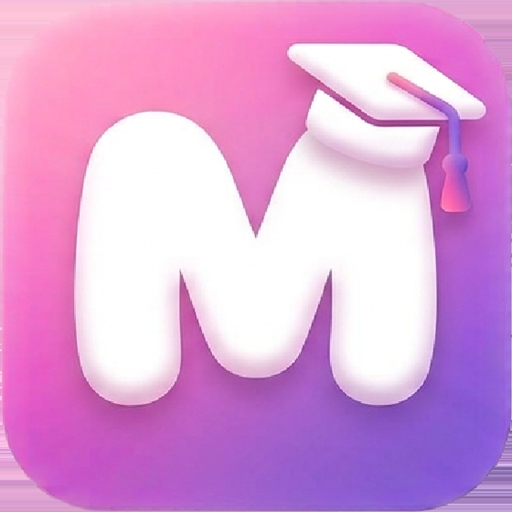
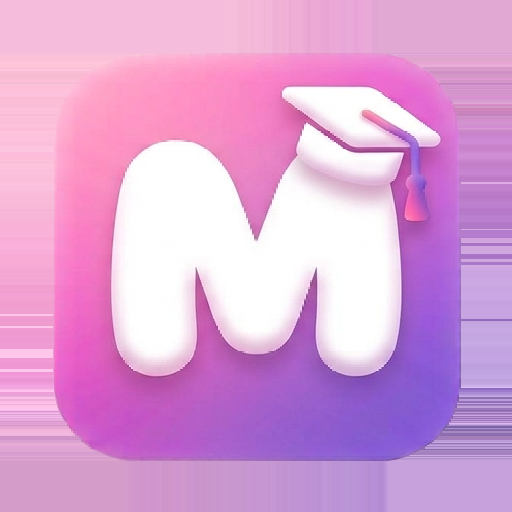
인트로 화면 추가 + 설치 아이콘을 둥근 사각형으로
인트로
- 앱에 들어가기 전 Mindora 소개 화면을 한 번 보여 준다. 매일 쓰는
  사람에게 매번 뜨면 방해가 되므로 본 뒤에는 건너뛴다
- JS 가 막혀도 갇히지 않도록 기본은 hidden 이고 JS 가 켠다.
  transitionend 가 오지 않는 환경에서도 닫히게 타임아웃을 함께 둔다

아이콘 — 용도별로 요구사항이 달라 세 갈래로 나눴다
- 일반(any): 둥근 모서리를 굽고 모서리 밖은 투명. 브라우저·런처가 원본을
  그대로 그리는 자리에서 다른 앱처럼 보인다
- maskable: OS 가 원·스퀴클 등 임의 모양으로 잘라 내므로, 로고를 가운데
  80% 안전 영역에 넣고 남는 테두리는 가장자리 색을 늘려 채웠다.
  안 그러면 M 과 학사모가 잘린다
- apple-touch-icon: iOS 는 투명을 검게 칠하므로 꽉 찬 정사각형으로 두고
  둥글리기는 iOS 에 맡긴다
- 원본의 바깥 발광을 채도 기준으로 잘라 내 흰 테두리를 없앴다. 축소할 때
  가장자리 알파가 반투명해지던 것도 고정한다
- PNG 가 스스로 둥근 모서리를 가지므로 CSS border-radius 는 뺐다.
  이중으로 깎이면 모서리가 지저분해진다

그 밖에
- initInstallPrompt 가 정의만 되고 호출되지 않아 홈 화면 설치 안내가
  아예 뜨지 않았다. init 에서 부른다

diff --git a/index.html b/index.html
@@ -122,6 +122,40 @@ body {
 .aurora span:nth-child(2) { width: 540px; height: 540px; background: #9fe4f5; top: 16%; right: -200px; opacity: 0.42; }
 .aurora span:nth-child(3) { width: 640px; height: 640px; background: #ffc9e4; bottom: -320px; left: 34%; opacity: 0.34; }
 
+/* ---------------------------------------------------------------- intro
+ * 앱에 들어가기 전 한 번 보여 주는 소개 화면.
+ * 뒤 화면이 스크롤되지 않게 body 에 .intro-open 을 걸어 잠근다. */
+.intro {
+  position: fixed; inset: 0; z-index: 200;
+  display: grid; place-items: center; padding: 24px;
+  background: linear-gradient(150deg, #f7f2ff, #eef6ff 55%, #fdf1f8);
+  overflow-y: auto;
+}
+.intro[hidden] { display: none; }
+.intro.is-out { opacity: 0; transition: opacity 0.32s ease; }
+.intro-card {
+  width: 100%; max-width: 420px; text-align: center;
+  background: rgba(255, 255, 255, 0.72);
+  border: 1px solid var(--line); border-radius: 22px;
+  padding: 34px 26px 28px;
+  box-shadow: 0 24px 60px -30px rgba(60, 40, 130, 0.45);
+  backdrop-filter: blur(14px); -webkit-backdrop-filter: blur(14px);
+}
+.intro-logo { width: 84px; height: 84px; display: block; margin: 0 auto 16px; }
+.intro-title { font-size: 27px; font-weight: 800; letter-spacing: -0.03em; margin: 0 0 6px; }
+.intro-lead { font-size: 15px; font-weight: 700; color: var(--accent); margin: 0 0 18px; }
+.intro-body { font-size: 14px; color: var(--muted); margin: 0 0 12px; text-align: left; }
+.intro-tag {
+  font-size: 12px; font-weight: 600; letter-spacing: 0.01em;
+  color: var(--muted); margin: 18px 0 22px;
+}
+.intro-go { width: 100%; }
+body.intro-open { overflow: hidden; }
+
+@media (prefers-reduced-motion: reduce) {
+  .intro.is-out { transition: none; }
+}
+
 /* --------------------------------------------------------------- topbar */
 .topbar {
   position: sticky; top: 0; z-index: 50;
@@ -131,10 +165,9 @@ body {
 }
 .topbar-inner { max-width: 1180px; margin: 0 auto; padding: 10px 20px; display: flex; align-items: center; gap: 14px; }
 .brand { display: flex; align-items: center; gap: 10px; flex-shrink: 0; }
-.brand-mark {
-  width: 38px; height: 38px; display: block; object-fit: cover;
-  border-radius: 11px;
-}
+/* 아이콘 PNG 가 이미 둥근 모서리를 품고 있다(모서리 밖은 투명).
+ * 여기서 또 border-radius 를 걸면 이중으로 깎여 모서리가 지저분해진다. */
+.brand-mark { width: 38px; height: 38px; display: block; }
 .brand-text { display: flex; flex-direction: column; line-height: 1.2; }
 /* h1 이지만 로고 자리라 크기는 그대로 둔다 — 의미만 h1, 모양은 기존과 동일 */
 .brand-text h1 { font-size: 15px; letter-spacing: -0.02em; font-weight: 700; margin: 0; }
@@ -1303,6 +1336,10 @@ input[type="range"]::-moz-range-thumb { width: 15px; height: 15px; border-radius
   /* 상단바 반투명 배경도 어두운 쪽으로 */
   .topbar { background: rgba(15, 18, 32, 0.84); }
 
+  /* 인트로 배경은 라이트용 파스텔 그라데이션이라 어두운 톤으로 다시 잡는다 */
+  .intro { background: linear-gradient(150deg, #171a2b, #12151f 55%, #1d1726); }
+  .intro-card { background: rgba(24, 28, 44, 0.76); }
+
   /* 컬러 배경 위 흰 글자는 그대로 두되, 흰 면 위 검은 글자는 뒤집어야 한다 */
   .toast { background: #e9ecf5; color: #12151f; }
   .toast.party { color: #fff; }
@@ -1340,6 +1377,19 @@ input[type="range"]::-moz-range-thumb { width: 15px; height: 15px; border-radius
 <link rel="apple-touch-icon" sizes="180x180" href="apple-touch-icon.png">
 </head>
 <body>
+
+<!-- 앱에 들어가기 전 인트로. JS 가 막히면 갇히지 않도록 CSS 로 숨기고 JS 가 켠다. -->
+<div class="intro" id="intro" role="dialog" aria-modal="true" aria-labelledby="introTitle" hidden>
+  <div class="intro-card">
+    <img class="intro-logo" src="icon-512.png" alt="" aria-hidden="true">
+    <h2 class="intro-title" id="introTitle">Mindora</h2>
+    <p class="intro-lead">공부를 더 똑똑하게, 기억을 더 오래.</p>
+    <p class="intro-body">Mindora는 AI를 활용해 공부하고 싶은 내용을 쉽고 효율적으로 학습할 수 있도록 도와주는 스마트 학습 앱입니다.</p>
+    <p class="intro-body">복잡한 공부 내용을 정리하고, 핵심을 파악하고, 반복해서 학습하면서 단순히 읽는 공부에서 <b>기억하는 공부</b>로 바꿔보세요.</p>
+    <p class="intro-tag">Learn smarter. Remember longer.</p>
+    <button type="button" class="btn primary intro-go" id="introGo">시작하기</button>
+  </div>
+</div>
 
 <div class="aurora" aria-hidden="true"><span></span><span></span><span></span></div>
 
@@ -9873,6 +9923,8 @@ input[type="range"]::-moz-range-thumb { width: 15px; height: 15px; border-radius
 
     if (!Store.available) toast('브라우저 저장소를 쓸 수 없어 기록이 유지되지 않습니다.', true);
 
+    initIntro();
+    initInstallPrompt();
     registerServiceWorker();
   }
 
@@ -9926,6 +9978,40 @@ input[type="range"]::-moz-range-thumb { width: 15px; height: 15px; border-radius
 
     $('installGo').classList.toggle('is-hidden', mode === 'ios');
     el.classList.remove('is-hidden');
+  }
+
+  /* ================================================================= 인트로
+   *
+   * 앱 화면에 들어가기 전에 소개를 한 번 보여 준다.
+   * 매번 뜨면 매일 쓰는 사람에게는 방해가 되므로, 이미 본 사람에게는
+   * 건너뛴다. (다시 보게 하려면 아래 키를 지우면 된다) */
+
+  var INTRO_SEEN_KEY = 'neurostudy.introSeen.v1';
+
+  function introSeen() {
+    try { return localStorage.getItem(INTRO_SEEN_KEY) === '1'; } catch (e) { return false; }
+  }
+
+  function closeIntro() {
+    var el = $('intro');
+    if (!el || el.hidden) return;
+    try { localStorage.setItem(INTRO_SEEN_KEY, '1'); } catch (e) { /* 무시 */ }
+    el.classList.add('is-out');
+    document.body.classList.remove('intro-open');
+    var done = function () { el.hidden = true; el.classList.remove('is-out'); };
+    // transitionend 가 오지 않는 환경(모션 축소 등)에서도 반드시 닫히게 한다
+    var t = setTimeout(done, 400);
+    el.addEventListener('transitionend', function () { clearTimeout(t); done(); }, { once: true });
+  }
+
+  function initIntro() {
+    var el = $('intro');
+    if (!el) return;
+    $('introGo').addEventListener('click', closeIntro);
+    if (introSeen()) return;
+    el.hidden = false;
+    document.body.classList.add('intro-open');
+    $('introGo').focus();
   }
 
   function initInstallPrompt() {

diff --git a/src/css/styles.css b/src/css/styles.css
@@ -93,6 +93,40 @@ body {
 .aurora span:nth-child(2) { width: 540px; height: 540px; background: #9fe4f5; top: 16%; right: -200px; opacity: 0.42; }
 .aurora span:nth-child(3) { width: 640px; height: 640px; background: #ffc9e4; bottom: -320px; left: 34%; opacity: 0.34; }
 
+/* ---------------------------------------------------------------- intro
+ * 앱에 들어가기 전 한 번 보여 주는 소개 화면.
+ * 뒤 화면이 스크롤되지 않게 body 에 .intro-open 을 걸어 잠근다. */
+.intro {
+  position: fixed; inset: 0; z-index: 200;
+  display: grid; place-items: center; padding: 24px;
+  background: linear-gradient(150deg, #f7f2ff, #eef6ff 55%, #fdf1f8);
+  overflow-y: auto;
+}
+.intro[hidden] { display: none; }
+.intro.is-out { opacity: 0; transition: opacity 0.32s ease; }
+.intro-card {
+  width: 100%; max-width: 420px; text-align: center;
+  background: rgba(255, 255, 255, 0.72);
+  border: 1px solid var(--line); border-radius: 22px;
+  padding: 34px 26px 28px;
+  box-shadow: 0 24px 60px -30px rgba(60, 40, 130, 0.45);
+  backdrop-filter: blur(14px); -webkit-backdrop-filter: blur(14px);
+}
+.intro-logo { width: 84px; height: 84px; display: block; margin: 0 auto 16px; }
+.intro-title { font-size: 27px; font-weight: 800; letter-spacing: -0.03em; margin: 0 0 6px; }
+.intro-lead { font-size: 15px; font-weight: 700; color: var(--accent); margin: 0 0 18px; }
+.intro-body { font-size: 14px; color: var(--muted); margin: 0 0 12px; text-align: left; }
+.intro-tag {
+  font-size: 12px; font-weight: 600; letter-spacing: 0.01em;
+  color: var(--muted); margin: 18px 0 22px;
+}
+.intro-go { width: 100%; }
+body.intro-open { overflow: hidden; }
+
+@media (prefers-reduced-motion: reduce) {
+  .intro.is-out { transition: none; }
+}
+
 /* --------------------------------------------------------------- topbar */
 .topbar {
   position: sticky; top: 0; z-index: 50;
@@ -102,10 +136,9 @@ body {
 }
 .topbar-inner { max-width: 1180px; margin: 0 auto; padding: 10px 20px; display: flex; align-items: center; gap: 14px; }
 .brand { display: flex; align-items: center; gap: 10px; flex-shrink: 0; }
-.brand-mark {
-  width: 38px; height: 38px; display: block; object-fit: cover;
-  border-radius: 11px;
-}
+/* 아이콘 PNG 가 이미 둥근 모서리를 품고 있다(모서리 밖은 투명).
+ * 여기서 또 border-radius 를 걸면 이중으로 깎여 모서리가 지저분해진다. */
+.brand-mark { width: 38px; height: 38px; display: block; }
 .brand-text { display: flex; flex-direction: column; line-height: 1.2; }
 /* h1 이지만 로고 자리라 크기는 그대로 둔다 — 의미만 h1, 모양은 기존과 동일 */
 .brand-text h1 { font-size: 15px; letter-spacing: -0.02em; font-weight: 700; margin: 0; }
@@ -1273,6 +1306,10 @@ input[type="range"]::-moz-range-thumb { width: 15px; height: 15px; border-radius
 
   /* 상단바 반투명 배경도 어두운 쪽으로 */
   .topbar { background: rgba(15, 18, 32, 0.84); }
+
+  /* 인트로 배경은 라이트용 파스텔 그라데이션이라 어두운 톤으로 다시 잡는다 */
+  .intro { background: linear-gradient(150deg, #171a2b, #12151f 55%, #1d1726); }
+  .intro-card { background: rgba(24, 28, 44, 0.76); }
 
   /* 컬러 배경 위 흰 글자는 그대로 두되, 흰 면 위 검은 글자는 뒤집어야 한다 */
   .toast { background: #e9ecf5; color: #12151f; }

diff --git a/src/js/app.js b/src/js/app.js
@@ -3006,6 +3006,8 @@
 
     if (!Store.available) toast('브라우저 저장소를 쓸 수 없어 기록이 유지되지 않습니다.', true);
 
+    initIntro();
+    initInstallPrompt();
     registerServiceWorker();
   }
 
@@ -3059,6 +3061,40 @@
 
     $('installGo').classList.toggle('is-hidden', mode === 'ios');
     el.classList.remove('is-hidden');
+  }
+
+  /* ================================================================= 인트로
+   *
+   * 앱 화면에 들어가기 전에 소개를 한 번 보여 준다.
+   * 매번 뜨면 매일 쓰는 사람에게는 방해가 되므로, 이미 본 사람에게는
+   * 건너뛴다. (다시 보게 하려면 아래 키를 지우면 된다) */
+
+  var INTRO_SEEN_KEY = 'neurostudy.introSeen.v1';
+
+  function introSeen() {
+    try { return localStorage.getItem(INTRO_SEEN_KEY) === '1'; } catch (e) { return false; }
+  }
+
+  function closeIntro() {
+    var el = $('intro');
+    if (!el || el.hidden) return;
+    try { localStorage.setItem(INTRO_SEEN_KEY, '1'); } catch (e) { /* 무시 */ }
+    el.classList.add('is-out');
+    document.body.classList.remove('intro-open');
+    var done = function () { el.hidden = true; el.classList.remove('is-out'); };
+    // transitionend 가 오지 않는 환경(모션 축소 등)에서도 반드시 닫히게 한다
+    var t = setTimeout(done, 400);
+    el.addEventListener('transitionend', function () { clearTimeout(t); done(); }, { once: true });
+  }
+
+  function initIntro() {
+    var el = $('intro');
+    if (!el) return;
+    $('introGo').addEventListener('click', closeIntro);
+    if (introSeen()) return;
+    el.hidden = false;
+    document.body.classList.add('intro-open');
+    $('introGo').focus();
   }
 
   function initInstallPrompt() {

diff --git a/src/index.html b/src/index.html
@@ -33,6 +33,19 @@
 </head>
 <body>
 
+<!-- 앱에 들어가기 전 인트로. JS 가 막히면 갇히지 않도록 CSS 로 숨기고 JS 가 켠다. -->
+<div class="intro" id="intro" role="dialog" aria-modal="true" aria-labelledby="introTitle" hidden>
+  <div class="intro-card">
+    <img class="intro-logo" src="icon-512.png" alt="" aria-hidden="true">
+    <h2 class="intro-title" id="introTitle">Mindora</h2>
+    <p class="intro-lead">공부를 더 똑똑하게, 기억을 더 오래.</p>
+    <p class="intro-body">Mindora는 AI를 활용해 공부하고 싶은 내용을 쉽고 효율적으로 학습할 수 있도록 도와주는 스마트 학습 앱입니다.</p>
+    <p class="intro-body">복잡한 공부 내용을 정리하고, 핵심을 파악하고, 반복해서 학습하면서 단순히 읽는 공부에서 <b>기억하는 공부</b>로 바꿔보세요.</p>
+    <p class="intro-tag">Learn smarter. Remember longer.</p>
+    <button type="button" class="btn primary intro-go" id="introGo">시작하기</button>
+  </div>
+</div>
+
 <div class="aurora" aria-hidden="true"><span></span><span></span><span></span></div>
 
 <header class="topbar">
